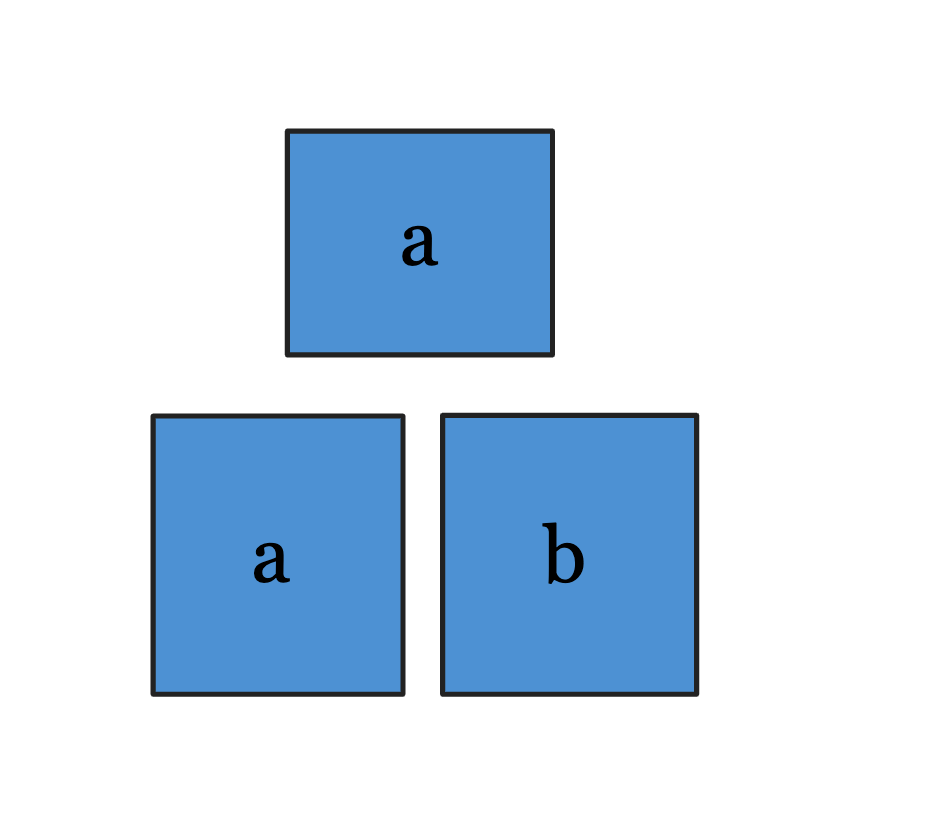
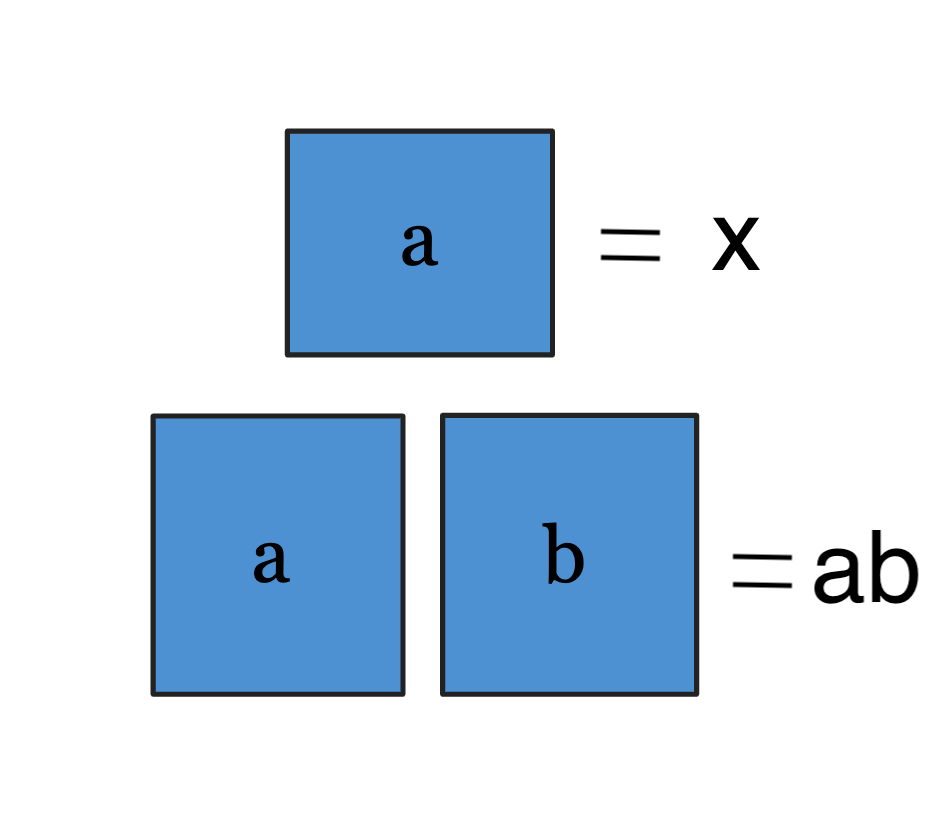
Add a lot of slides with pictures

diff --git a/index.html b/index.html
@@ -79,64 +79,131 @@
     </section>
 
     <section class="slide">
-        <h2>Сроки:</h2>
-        <h2 class="next">
-            2 недели
-        </h2>
-
-        <h2 class="next">
-            1 разработчик
-        </h2>
+        <h2 class="shout" style="font-size: 100px">Срок - 2 недели <br /> Силы - 1 разработчик</h2>
     </section>
 
     <section class="slide">
+        <h2 class="shout" style="font-size: 100px">Выбор библиотек</h2>
+    </section>
+
+    <section class="slide">
+        <h2 class="shout" style="font-size: 80px">Загрузчик для страниц - <a href="https://polaris.shopify.com/" target="_blank">@shopify/polaris</a></h2>
+    </section>
+
+    <section class="slide">
+        <h2 class="shout" style="font-size: 80px">Дропзона для перемещения страниц - <a href="https://react-dnd.github.io/react-dnd/" target="_blank">react-dnd</a></h2>
+
         <figure>
-            <img class="cover" src="pictures/maket.jpg" alt="Макет разметки">
+            <img
+                class="cover"
+                src="pictures/abramov.jpg"
+                alt="Ден Абрамов"
+                style="position: absolute; bottom: -10%; right: -10%; left:  auto; top: auto; width: 300px"
+            />
         </figure>
     </section>
 
     <section class="slide">
-        <h2>Выбор библиотек</h2>
-        <div class="columns two">
-          <ol class="next">
-              <li>Загрузчик для страниц</li>
-              <li>Дропзона для перемещения страниц</li>
-              <li>Работа со страницей (canvas ?)</li>
-              <li>Zoom ?</li>
-          </ol>
-
-          <ol class="next">
-              <li>@shopify/polaris</li>
-              <li>react-dnd</li>
-              <li style="margin-top: 50px">konva, react-konva</li>
-              <li>Отказать</li>
-          </ol>
-        </div>
+        <h2 class="shout" style="font-size: 80px; width: 70%; left: 50%; transform: translate(-50%, -50%);">Работа со страницей - <a href="https://github.com/konvajs" target="_blank">konva</a>, <a href="https://github.com/konvajs/react-konva" target="_blank">react-konva</a></h2>
     </section>
 
     <section class="slide">
-        <h2>Риски</h2>
-
-        <ol>
-            <li class="next">Новый разработчик на проекте</li>
-            <li class="next">Плохое коммуникация между разработчиками</li>
-        </ol>
+        <h2 class="shout" style="font-size: 80px;">Зум - не делаем</h2>
     </section>
 
     <section class="slide">
-        <h2>Первые проблемы</h2>
+        <h2 class="shout" style="font-size: 100px">Первые проблемы</h2>
+    </section>
 
-        <ol>
-            <li class="next">Страница разметки не вписывается в дизайн систему</li>
-            <li class="next">Структура хранения...</li>
-        </ol>
+    <section class="slide clear" id="cover" style="background: #9bc3dd;">
+        <figure>
+            <img class="cover" src="pictures/sorter.png" alt="Страница разметки не вписывается в дизайн систему" />
+        </figure>
+    </section>
+
+    <section class="slide clear" id="cover" style="background: #383430;">
+        <figure>
+            <img class="cover" src="pictures/disconnect.jpg" alt="Плохая коммуникация и как следствие - проблемы со структурой данных" />
+        </figure>
+    </section>
+
+    <section class="slide clear">
+        <img
+          class="cover"
+          src="pictures/structure.png"
+          alt="Старая структура данных"
+        />
+    </section>
+
+    <section class="slide clear" style="background: #333254;">
+        <img
+          class="cover"
+          src="pictures/x.jpg"
+          alt="пример структуры х"
+        />
+    </section>
+
+    <section class="slide clear">
+        <img
+          class="cover"
+          src="pictures/a_b.jpg"
+          alt="пример структуры a и b"
+        />
+    </section>
+
+    <section class="slide clear" style="background: #6d6a65;">
+        <img
+          class="cover"
+          src="pictures/ab.jpg"
+          alt="пример структуры ab"
+        />
+    </section>
+
+    <section class="slide clear">
+        <figure>
+            <img
+              class="cover"
+              src="pictures/firstVersion.png"
+              alt="Первая версия структуры"
+            />
+
+            <ul>
+                <li class="next" style="position: absolute;bottom: 10%;right: 10%;list-style-type: none;">
+                    Спойлер: так думала я
+                </li>
+            </ul>
+        </figure>
+    </section>
+
+    <section class="slide clear" style="background: #e4f5fd;">
+        <figure>
+            <img class="cover" src="pictures/bug.png" alt="Бага">
+        </figure>
+    </section>
+
+    <section class="slide clear">
+        <figure>
+            <img
+              class="cover"
+              src="pictures/weAgreed.jpg"
+              alt="Мы же договаривались!"
+            />
+        </figure>
     </section>
 
     <section class="slide">
         <img
           class="cover"
-          src="pictures/rickAndMorty.gif"
-          alt="Боль"
+          src="pictures/rightVariant2.png"
+          alt="Вариант 2"
+        />
+    </section>
+
+    <section class="slide" style="background: #f9f9f9;">
+        <img
+          class="cover"
+          src="pictures/look.png"
+          alt="Чего непонятного то?!"
         />
     </section>
 
@@ -147,61 +214,6 @@
           alt="Перемещение страниц"
           autoplay
           controls="controls"
-        />
-    </section>
-
-    <section class="slide">
-        <h2>Структура</h2>
-        <h3>Раньше была:</h3>
-        <ul>
-            <li>Левая страница - <code>position: 'a'</code></li>
-            <li>Правая страница - <code>position: 'b'</code></li>
-            <li>Изолированная страница - <code>position: 'x'</code></li>
-            <li>Склеенные страницы (разворот) - <code>position: 'ab'</code></li>
-        </ul>
-    </section>
-
-    <section class="slide">
-        <h2>Структура</h2>
-        <img
-          class="cover"
-          src="pictures/structure.png"
-          alt="Структура"
-          style="margin-top: 50px"
-        />
-    </section>
-
-    <section class="slide">
-        <img
-          class="cover"
-          src="pictures/variant1.png"
-          alt="Вариант 1"
-        />
-    </section>
-
-    <section class="slide">
-      <figure>
-          <img class="cover" src="pictures/run.gif" alt="Взаимодействие фронтенда и бекенда">
-          <figcaption class="copyright right white">
-              <a href="https://github.com/Julia-Lavrova">© Julia Lavrova</a>
-          </figcaption>
-      </figure>
-    </section>
-
-    <section class="slide">
-      <figure>
-          <img class="cover" src="pictures/communication.jpg" alt="Взаимодействие фронтенда и бекенда">
-          <figcaption class="copyright right white">
-              <a href="https://github.com/Julia-Lavrova">© Julia Lavrova</a>
-          </figcaption>
-      </figure>
-    </section>
-
-    <section class="slide">
-        <img
-          class="cover"
-          src="pictures/rightVariant2.png"
-          alt="Вариант 2"
         />
     </section>
 
